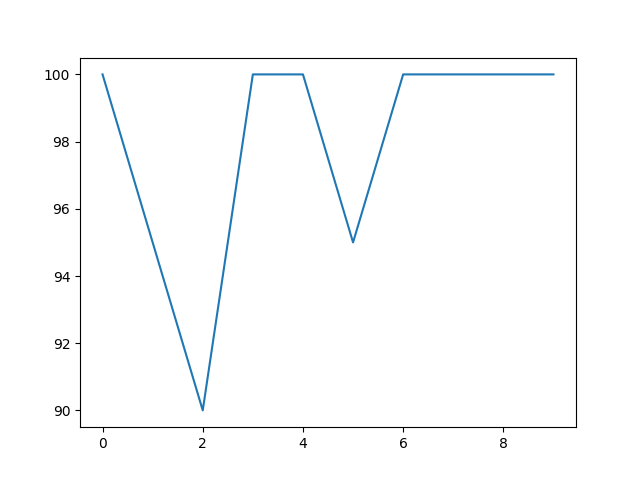
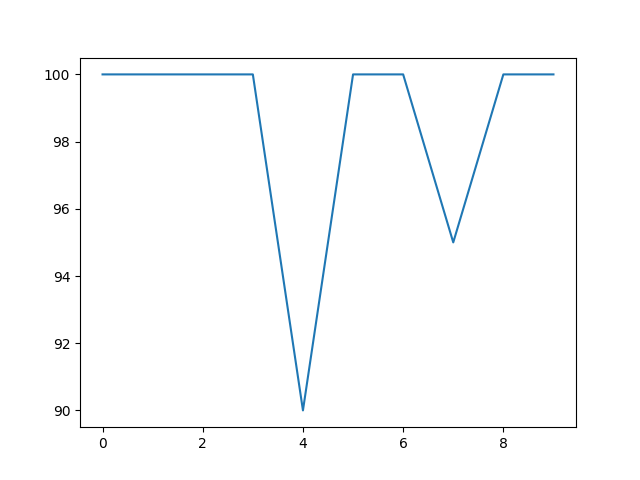
11

diff --git a/pre_process.py b/pre_process.py
@@ -65,7 +65,9 @@ def interpolate_mfcc(mfccs, target_length) -> np.ndarray:
         np.arange(original_length),
         mfccs,
         # kind="linear",
-        kind="nearest",
+        # kind="nearest",
+        # 立方插值 ，圆滑插值
+        kind="cubic",
         axis=1,
         fill_value="extrapolate",
     )
@@ -108,7 +110,7 @@ def load_audio_features(
 
     # original_length = mfccs.shape[1]
 
-    # 去除所有配对的相似帧中索引更大的帧
+    # 去除所有配对的相似帧中索引更大的帧，以保持有序性
     mfccs = np.delete(mfccs, [max(pair) for pair in similar_pairs], axis=1)
 
     # new_length = mfccs.shape[1]

diff --git a/test_train_result.py b/test_train_result.py
@@ -99,7 +99,7 @@ def get_audio_paths_labels(
     return zip_list_audio_paths, zip_list_labels
 
 
-# 预测任务
+# 预测任务 交叉验证
 # 分割数据集
 # 测试集和训练集不相等，且不参与训练 打乱数据集
 def test_train_result_slpit_origian():

diff --git a/README.md b/README.md
@@ -1,7 +1,7 @@
 ### 一个对敲击零件发出的声音来判断零件是否合格的机器学习项目
 
 - MFCC特征提取
-- 基于LTSM网络
+- 基于双向LTSM网络
 - 音频三分类问题
 
 CLSAA = [0, 1, 2]  # 0 松 1 正常 2 紧
